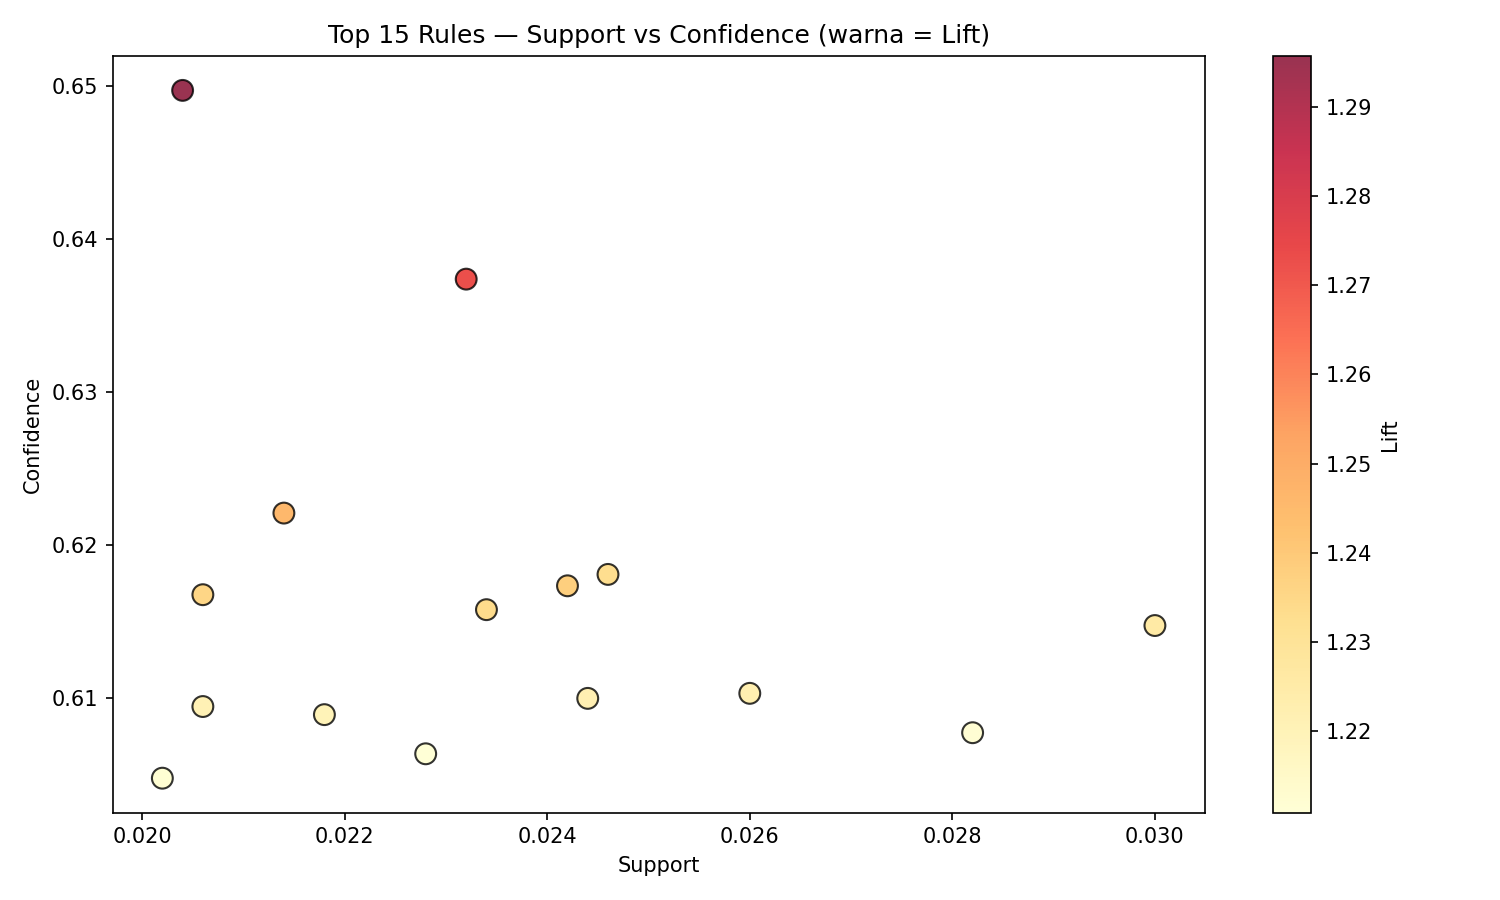
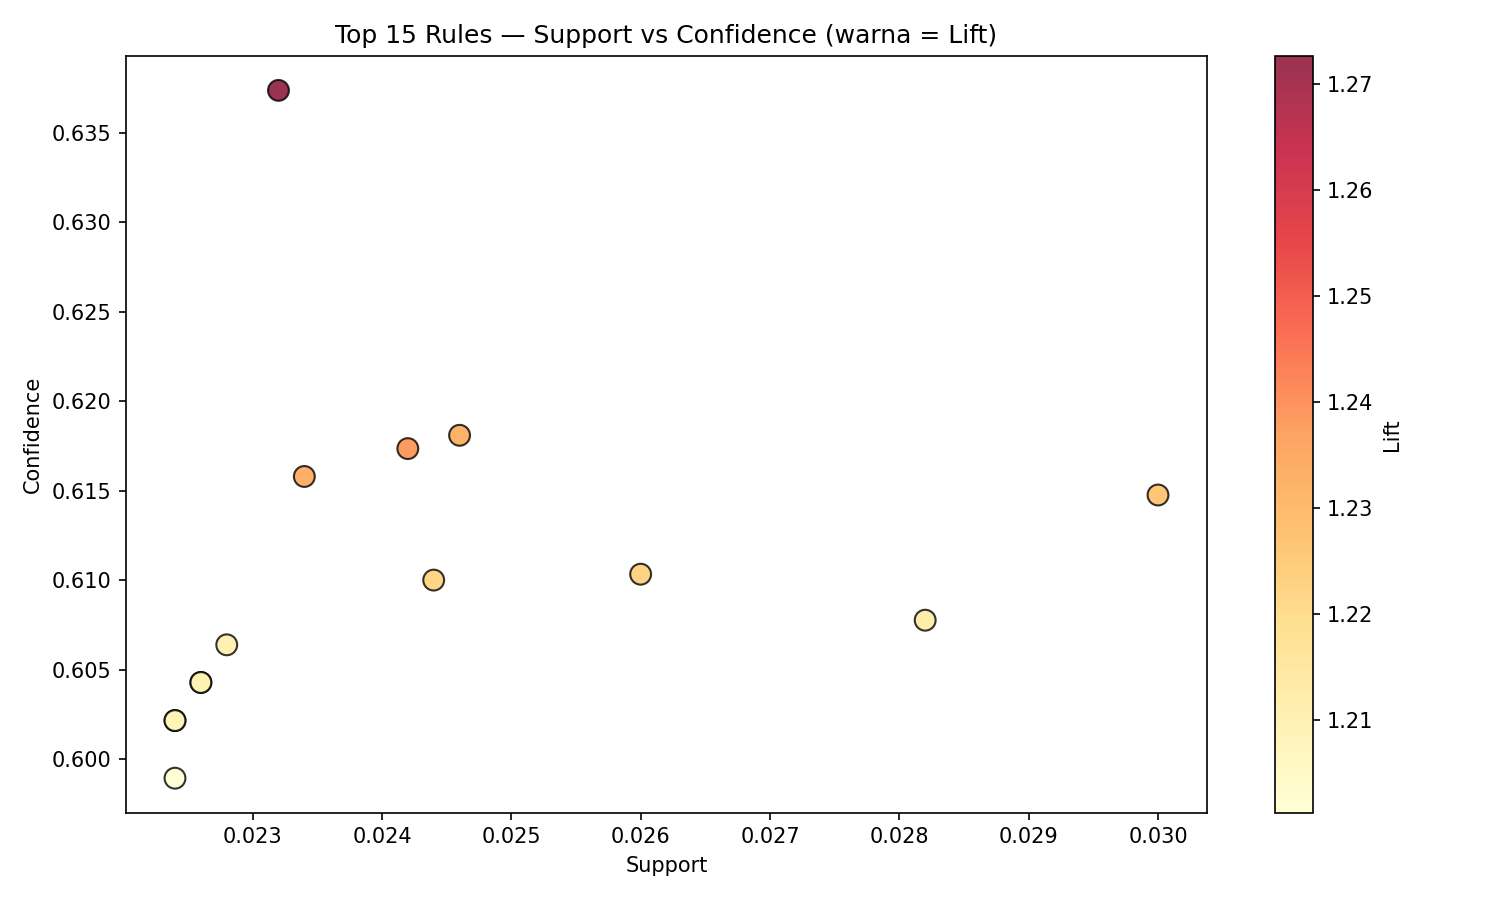
Refactor: added rule intepretation and prettier to be more understandable

diff --git a/src/arm.py b/src/arm.py
@@ -35,6 +35,18 @@ MIN_SUPPORT    = 0.05   # minimum 5% dari total transaksi
 MIN_CONFIDENCE = 0.5    # minimum 50% confidence
 MIN_LIFT       = 1.2    # hanya ambil rules yang non-trivial
 
+# MIN_SUPPORT = 0.05
+# Dipilih karena rule harus muncul cukup sering agar stabil dan meaningful.
+# Dengan dataset ini, 5% berarti rule muncul pada sekitar 250 baris jika total 5,000 record.
+
+# MIN_CONFIDENCE = 0.5
+# Rule harus benar pada minimal separuh kasus antecedent → consequent.
+
+# MIN_LIFT = 1.2
+# Lift > 1 berarti hubungan non-trivial; 1.2 berarti setidaknya 20% lebih kuat dari random.
+
+# Jika jumlah rule terlalu sedikit, threshold support dapat diturunkan secara bertahap, 
+# tetapi tetap harus dijaga agar rule tidak menjadi terlalu lemah atau tidak meaningful.
 
 # ════════════════════════════════════════════════════════════
 # LOAD DATA
@@ -216,7 +228,7 @@ def auto_tune_support(df_encoded, target_rules=10,
     Iterasi min_support dari start_support turun ke 0.01
     hingga didapat minimal target_rules rules.
     """
-    support_values = np.arange(start_support, 0.009, -0.005).round(3)
+    support_values = np.arange(start_support, 0.009, -0.0025).round(3)
 
     for sup in support_values:
         print(f"\nMencoba min_support = {sup}...")
@@ -351,6 +363,98 @@ def export_rules(rules, top_n=20):
 
     return top_rules
 
+# ════════════════════════════════════════════════════════════
+# BUSINESS MEANING LAYER
+# Menerjemahkan item Apriori dari format "Kolom=Nilai"
+# ke bahasa bisnis agar interpretasi rule lebih kuat.
+# ════════════════════════════════════════════════════════════
+
+ITEM_MEANING_MAP = {
+    'Age_Group=Young': 'nasabah usia muda',
+    'Age_Group=Adult': 'nasabah dewasa',
+    'Age_Group=Middle-aged': 'nasabah paruh baya',
+    'Age_Group=Senior': 'nasabah senior',
+
+    'Balance_Bucket=Low': 'saldo rendah',
+    'Balance_Bucket=Lower-Mid': 'saldo menengah bawah',
+    'Balance_Bucket=Upper-Mid': 'saldo menengah atas',
+    'Balance_Bucket=High': 'saldo tinggi',
+
+    'Transaction_Size=Small': 'transaksi kecil',
+    'Transaction_Size=Medium': 'transaksi menengah',
+    'Transaction_Size=Large': 'transaksi besar',
+    'Transaction_Size=Very Large': 'transaksi sangat besar',
+
+    'Loan_Size=Small': 'pinjaman kecil',
+    'Loan_Size=Medium': 'pinjaman menengah',
+    'Loan_Size=Large': 'pinjaman besar',
+    'Loan_Size=Very Large': 'pinjaman sangat besar',
+
+    'Rate_Category=Low': 'bunga rendah',
+    'Rate_Category=Moderate': 'bunga moderat',
+    'Rate_Category=High': 'bunga tinggi',
+
+    'CC_Utilization_Category=Excellent': 'utilisasi kartu sangat rendah',
+    'CC_Utilization_Category=Good': 'utilisasi kartu rendah',
+    'CC_Utilization_Category=Moderate': 'utilisasi kartu sedang',
+    'CC_Utilization_Category=High': 'utilisasi kartu tinggi',
+    'CC_Utilization_Category=Very High': 'utilisasi kartu sangat tinggi',
+    'CC_Utilization_Category=Over_Limit': 'pemakaian kartu melebihi limit',
+
+    'Loan_Status=Approved': 'pengajuan disetujui',
+    'Loan_Status=Rejected': 'pengajuan ditolak',
+
+    'Resolution_Status=Resolved': 'keluhan terselesaikan',
+    'Resolution_Status=Pending': 'keluhan masih tertunda',
+
+    'Feedback Type=Complaint': 'feedback berupa komplain',
+    'Feedback Type=Suggestion': 'feedback berupa saran',
+    'Feedback Type=Inquiry': 'feedback berupa pertanyaan'
+}
+
+def pretty_item(item):
+    if item in ITEM_MEANING_MAP:
+        return ITEM_MEANING_MAP[item]
+    if '=' in item:
+        key, val = item.split('=', 1)
+        return f"{key.replace('_', ' ')} = {val.replace('_', ' ')}"
+    return item.replace('_', ' ')
+
+def pretty_itemset(itemset):
+    return ', '.join(pretty_item(i) for i in sorted(itemset))
+
+def infer_business_theme(items):
+    items = set(items)
+
+    risk_items = {
+        'CC_Utilization_Category=High',
+        'CC_Utilization_Category=Very High',
+        'CC_Utilization_Category=Over_Limit',
+        'Rate_Category=High',
+        'Transaction_Size=Very Large',
+        'Loan_Status=Rejected'
+    }
+
+    service_items = {
+        'Feedback Type=Complaint',
+        'Resolution_Status=Pending'
+    }
+
+    value_items = {
+        'Balance_Bucket=High',
+        'Loan_Status=Approved',
+        'CC_Utilization_Category=Low',
+        'CC_Utilization_Category=Good',
+        'CC_Utilization_Category=Excellent'
+    }
+
+    if items & risk_items:
+        return 'Profil risiko / tekanan kredit'
+    if items & service_items:
+        return 'Pola layanan / keluhan nasabah'
+    if items & value_items:
+        return 'Profil nasabah bernilai tinggi / sehat'
+    return 'Pola co-occurrence umum'
 
 # ════════════════════════════════════════════════════════════
 # BUSINESS INTERPRETATION TEMPLATE
@@ -364,21 +468,32 @@ def print_business_interpretation(rules, top_n=10):
     print("="*60)
 
     for i, (_, row) in enumerate(rules.head(top_n).iterrows(), 1):
+        antecedents = row['antecedents']
+        consequents = row['consequents']
+
+        antecedent_text = pretty_itemset(antecedents)
+        consequent_text = pretty_itemset(consequents)
+        theme = infer_business_theme(antecedents.union(consequents))
+
         print(f"\n{'─'*60}")
         print(f"Rule #{i}")
-        print(f"  IF   : {row['antecedents_str']}")
-        print(f"  THEN : {row['consequents_str']}")
-        print(f"  Support    : {row['support']:.4f} "
-              f"({row['support']*100:.1f}% transaksi)")
-        print(f"  Confidence : {row['confidence']:.4f} "
-              f"({row['confidence']*100:.1f}% akurasi)")
-        print(f"  Lift       : {row['lift']:.4f} "
-              f"({'↑' if row['lift'] > 1 else '↓'} "
-              f"{abs(row['lift']-1)*100:.1f}% lebih "
-              f"{'likely' if row['lift'] > 1 else 'unlikely'} dari random)")
-        print(f"  Interpretasi bisnis:")
-        print(f"  → [TULIS INTERPRETASI DI SINI]")
+        print(f"  Tema       : {theme}")
+        print(f"  IF   : {antecedent_text}")
+        print(f"  THEN : {consequent_text}")
+        print(f"  Support    : {row['support']:.4f} ({row['support']*100:.1f}% transaksi)")
+        print(f"  Confidence : {row['confidence']:.4f} ({row['confidence']*100:.1f}% kasus IF→THEN)")
+        print(f"  Lift       : {row['lift']:.4f}")
 
+        if row['lift'] > 1:
+            lift_msg = "lebih sering muncul daripada yang diharapkan secara acak"
+        elif row['lift'] == 1:
+            lift_msg = "setara dengan kejadian acak"
+        else:
+            lift_msg = "lebih jarang muncul daripada yang diharapkan secara acak"
+
+        print(f"  Makna lift : hubungan ini {lift_msg}.")
+        print(f"  Interpretasi bisnis:")
+        print(f"  → Nasabah dengan {antecedent_text} cenderung memiliki {consequent_text}.")
 
 # ════════════════════════════════════════════════════════════
 # MAIN PIPELINE
@@ -439,6 +554,7 @@ def run_arm(path=None):
     print("\n[6/6] Export rules & interpretasi bisnis...")
     export_rules(rules, top_n=20)
     print_business_interpretation(rules, top_n=10)
+    print(f"  → Pola ini mendukung segmentasi/targeting karena muncul cukup sering dan tidak trivial.")
 
     print("\n" + "=" * 55)
     print("  PHASE 3 SELESAI")